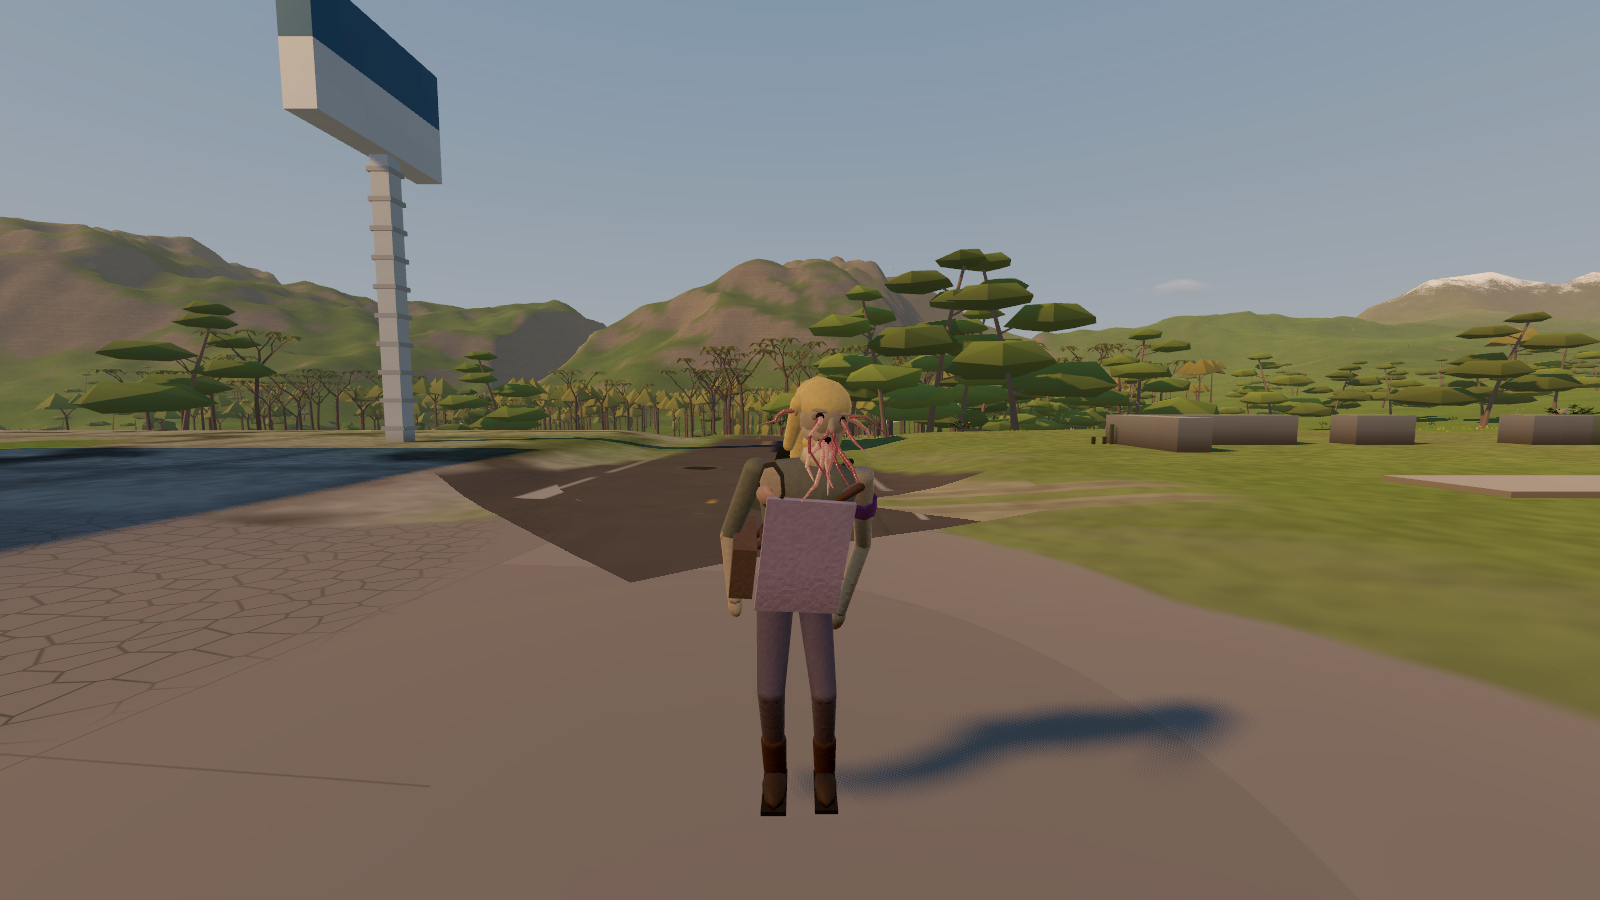
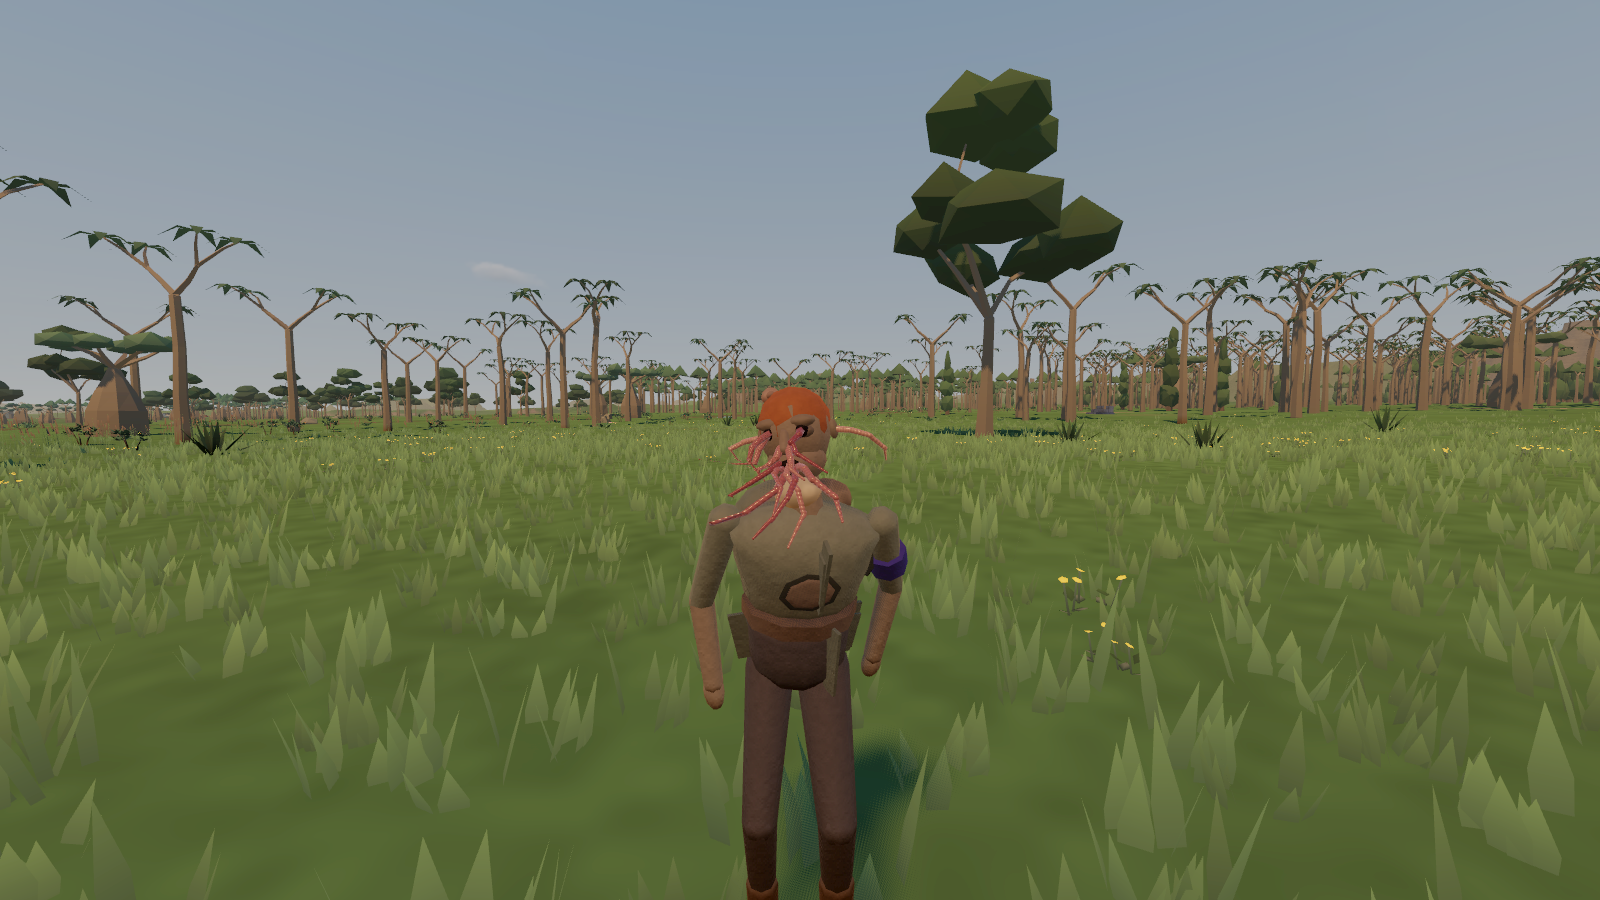
Gallery: Husks retaken on open ground with nothing held, and the Vharn garrison without the square smoke puffs

diff --git a/README.md b/README.md
@@ -41,7 +41,7 @@ Fresh shots from the latest test build, rendered by the game itself. The city sk
 <table>
 <tr><td width="33%"><a href="docs/gallery/city-river.png"><img src="docs/gallery/city-river.png" alt="A city skyline over its river"></a><br><sub>A city skyline over its river</sub></td><td width="33%"><a href="docs/gallery/ruined-village.png"><img src="docs/gallery/ruined-village.png" alt="A cracked road through a ruined village"></a><br><sub>A cracked road through a ruined village</sub></td><td width="33%"><a href="docs/gallery/meadow.png"><img src="docs/gallery/meadow.png" alt="A meadow world with its own trees and flowers"></a><br><sub>A meadow world with its own trees and flowers</sub></td></tr>
 <tr><td width="33%"><a href="docs/gallery/arid-world.png"><img src="docs/gallery/arid-world.png" alt="An arid world: dunes, mesas and blue lakes"></a><br><sub>An arid world: dunes, mesas and blue lakes</sub></td><td width="33%"><a href="docs/gallery/storm.png"><img src="docs/gallery/storm.png" alt="A storm cell with its rain curtain hanging below"></a><br><sub>A storm cell with its rain curtain hanging below</sub></td><td width="33%"><a href="docs/gallery/tornado.png"><img src="docs/gallery/tornado.png" alt="A tornado under its storm, down an old highway"></a><br><sub>A tornado under its storm, down an old highway</sub></td></tr>
-<tr><td width="33%"><a href="docs/gallery/husks.png"><img src="docs/gallery/husks.png" alt="Husks on a fuel station forecourt"></a><br><sub>Husks on a fuel station forecourt</sub></td><td width="33%"><a href="docs/gallery/husk-close.png"><img src="docs/gallery/husk-close.png" alt="A Husk, worms spilling from its mouth and eyes"></a><br><sub>A Husk, worms spilling from its mouth and eyes</sub></td><td width="33%"><a href="docs/gallery/highway.png"><img src="docs/gallery/highway.png" alt="An old highway, cracked and grown over"></a><br><sub>An old highway, cracked and grown over</sub></td></tr>
+<tr><td width="33%"><a href="docs/gallery/husks.png"><img src="docs/gallery/husks.png" alt="Husks out on the open savanna"></a><br><sub>Husks out on the open savanna</sub></td><td width="33%"><a href="docs/gallery/husk-close.png"><img src="docs/gallery/husk-close.png" alt="A Husk, worms spilling from its mouth"></a><br><sub>A Husk, worms spilling from its mouth</sub></td><td width="33%"><a href="docs/gallery/highway.png"><img src="docs/gallery/highway.png" alt="An old highway, cracked and grown over"></a><br><sub>An old highway, cracked and grown over</sub></td></tr>
 <tr><td width="33%"><a href="docs/gallery/vharn-garrison.png"><img src="docs/gallery/vharn-garrison.png" alt="A ruined Vharn garrison beyond the baobabs"></a><br><sub>A ruined Vharn garrison beyond the baobabs</sub></td><td width="33%"><a href="docs/gallery/climb.png"><img src="docs/gallery/climb.png" alt="Climbing to orbit: the world curves away below"></a><br><sub>Climbing to orbit: the world curves away below</sub></td><td width="33%"><a href="docs/gallery/galaxy-orbit.png"><img src="docs/gallery/galaxy-orbit.png" alt="The galaxy from orbit, its core and a nebula"></a><br><sub>The galaxy from orbit, its core and a nebula</sub></td></tr>
 <tr><td width="33%"><a href="docs/gallery/galaxy-map.png"><img src="docs/gallery/galaxy-map.png" alt="The galaxy map: every star charted, lanes between them"></a><br><sub>The galaxy map: every star charted, lanes between them</sub></td><td width="33%"><a href="docs/gallery/tech-tree.png"><img src="docs/gallery/tech-tree.png" alt="The tech tree: Small & Hover"></a><br><sub>The tech tree: Small & Hover</sub></td><td width="33%"><a href="docs/gallery/core-tab.png"><img src="docs/gallery/core-tab.png" alt="The CORE tab: a Small Core and its striped mode switch"></a><br><sub>The CORE tab: a Small Core and its striped mode switch</sub></td></tr>
 </table>
